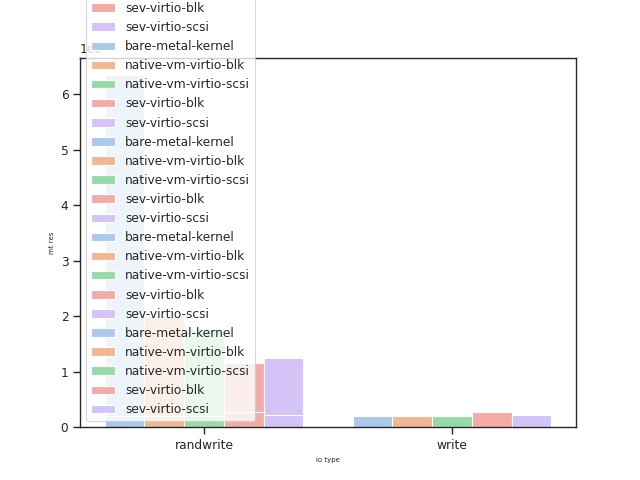
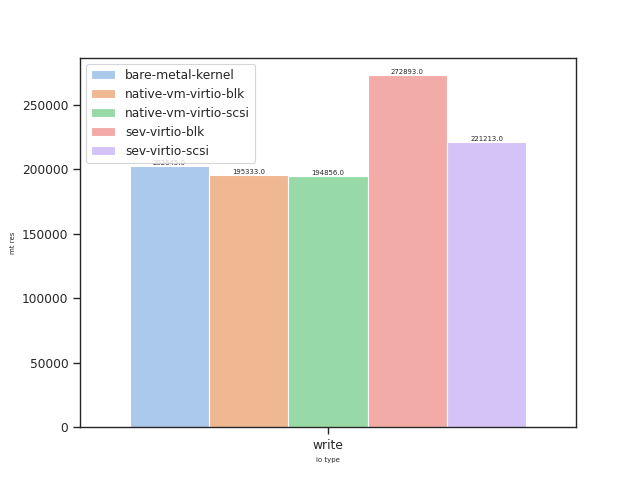
--wip-- [skip ci]

diff --git a/tools/fio-plotters/src/plot/plotter.py b/tools/fio-plotters/src/plot/plotter.py
@@ -3,8 +3,11 @@ from dataclasses import dataclass
 from plot.json_parser import MT_BW, MT_ALAT, MT_IOPS
 from plot.repr import IotGroup
 
+import matplotlib.pyplot as plt
 import pandas as pd
 import seaborn as sns
+
+import time
 
 # sns settings
 sns.set_style("whitegrid")
@@ -28,6 +31,9 @@ def legend_without_duplicate_labels(ax):
     unique = [(h, l) for i, (h, l) in enumerate(zip(handles, labels)) if l not in labels[:i]]
     ax.legend(*zip(*unique))
 
+def add_values_on_bars(ax):
+    for container in ax.containers:
+        ax.bar_label(container, fmt='%.1f')
 
 # mt : iot (grouped), (unique triplet) env, device, mt_res
 # NOTE: this code is a mess, some refactoring wouldn't hurt
@@ -38,6 +44,7 @@ def plot(mt_data_dict, output_dir):
         # df = pd.DataFrame(data=iot_group_dict)
         # print(df)
 
+        print(f'{mt}\n')
         for iot, iot_group in iot_group_dict.items():
             iot_group_collection = {FIRST_COL_LABEL: [], SCND_COL_LABEL: [], THIRD_COL_LABEL: []}
             for iot_group_member in iot_group:
@@ -45,29 +52,17 @@ def plot(mt_data_dict, output_dir):
                 iot_group_collection[SCND_COL_LABEL].append(iot_group_member[0])
                 iot_group_collection[THIRD_COL_LABEL].append(iot_group_member[1])
 
-            df = pd.DataFrame(data=:ot_group_collection)\
+            df = pd.DataFrame(data=iot_group_collection)\
                 .drop_duplicates(subset=[FIRST_COL_LABEL, SCND_COL_LABEL])\
                 .sort_values(by=[SCND_COL_LABEL])\
                 .reset_index(drop=True)
 
-            # print(df)
+            # TODO URGENT FIXME: avg latency readrand w/ iops bars overlapping
             plot = sns.barplot(x=FIRST_COL_LABEL, y=THIRD_COL_LABEL, hue=SCND_COL_LABEL,
                 data=df, palette=PALETTE, edgecolor = 'w')
             legend_without_duplicate_labels(plot)
+            add_values_on_bars(plot)
             fig = plot.get_figure()
             fig.savefig(f'{output_dir}/{mt}-{iot}-out.png')
-
-        # TODO: iops mixread/mixwrite is missing
-
-
-            # else:
-            #    read_iot_groups[iot] = iot_group
-#                if read_df.empty:
-#                    read_df = pd.DataFrame(data=iot_group, columns=[FIRST_COL_LABEL, SCND_COL_LABEL])\
-#                            .sort_values(by=[SCND_COL_LABEL])
-#                else:
-#                    iot_df = pd.DataFrame(data=iot_group, columns=[FIRST_COL_LABEL, SCND_COL_LABEL])\
-#                            .sort_values(by=[SCND_COL_LABEL])
-#                    read_df = pd.concat([read_df, iot_df])
-#                    print(read_df)
-
+            print(f'{output_dir}/{mt}-{iot}-out.png')
+k           plt.clf()

diff --git a/tools/fio-plotters/src/plot/json_parser.py b/tools/fio-plotters/src/plot/json_parser.py
@@ -28,6 +28,7 @@ ENV_REV_INDEX = -4
 JOB_KEY            = 'jobs'
 JOB_JOBOPTS_KEY    = 'job options'
 JOB_JOBOPTS_RW_KEY = 'rw'
+JOB_JOBOPTS_MIX_KEY = 'mix'
 JOB_WRITE_KEY      = 'write'
 JOB_READ_KEY       = 'read'
 
@@ -57,6 +58,10 @@ def parse_ctxs(mt_job_ctxs):
 
             job = job_ctx.job
             io_type = job[JOB_JOBOPTS_KEY][JOB_JOBOPTS_RW_KEY]
+            # check if mix
+            for key in job[JOB_JOBOPTS_KEY].keys():
+                if JOB_JOBOPTS_MIX_KEY in key:
+                    io_type = f'{JOB_JOBOPTS_MIX_KEY}{io_type}'
 
             if mt == MT_BW:
                 mt_res_key = JOB_R_W_BW_KEY
